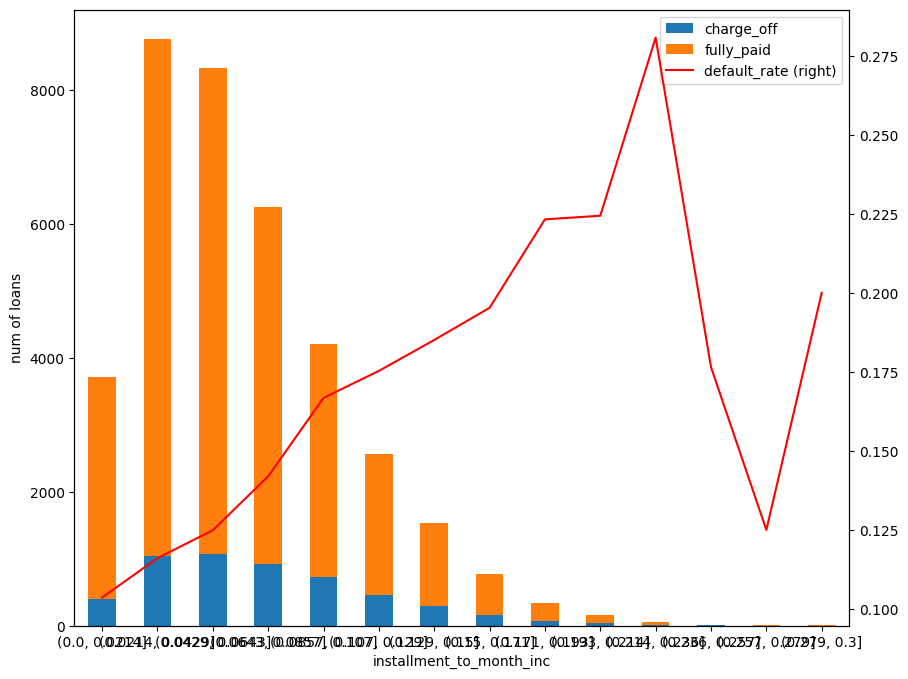
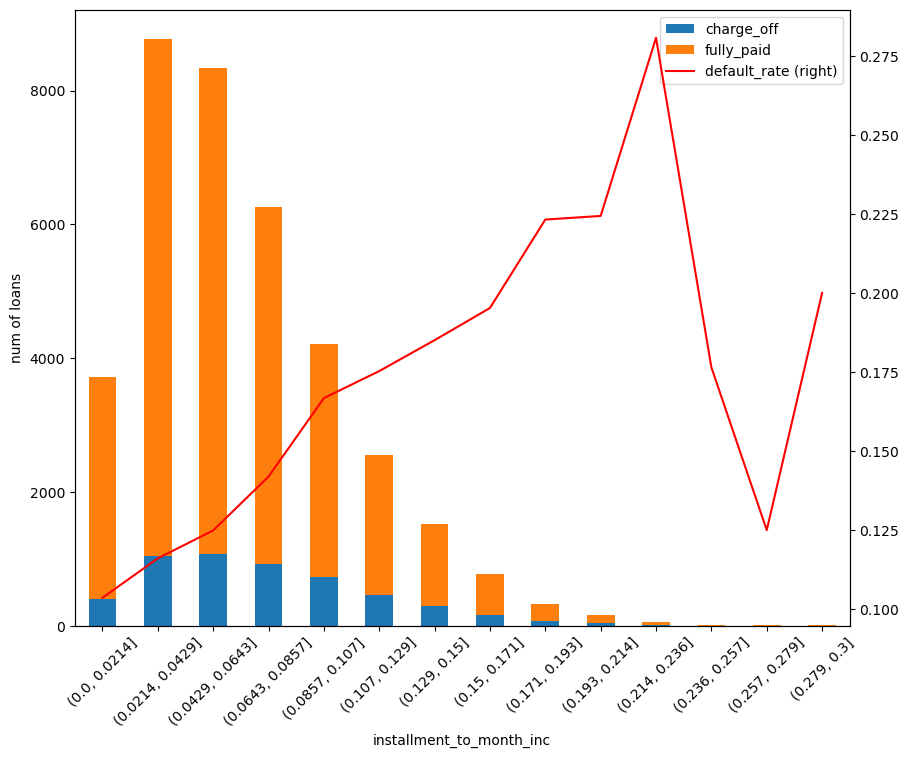
Built site for gh-pages

diff --git a/CaseStudy_Loans_EDA.html b/CaseStudy_Loans_EDA.html
@@ -1086,14 +1086,15 @@ LoanAmount &lt; 98%ile and Annual income &lt; 98%ile: num of rows: 36409
 <p><img src="CaseStudy_Loans_EDA_files/figure-html/cell-37-output-1.png" class="img-fluid"></p>
 </div>
 </div>
-<div class="cell" data-tags="[]" data-execution_count="37">
+<div class="cell" data-tags="[]" data-execution_count="46">
 <div class="sourceCode cell-code" id="cb55"><pre class="sourceCode python code-with-copy"><code class="sourceCode python"><span id="cb55-1"><a href="#cb55-1" aria-hidden="true" tabindex="-1"></a>ax <span class="op">=</span> loan_data_df.groupby([<span class="st">'installment_to_month_inc'</span>]).agg(</span>
 <span id="cb55-2"><a href="#cb55-2" aria-hidden="true" tabindex="-1"></a>                                         charge_off<span class="op">=</span>(<span class="st">'loan_status'</span>, <span class="kw">lambda</span> x: (x<span class="op">==</span><span class="st">'Charged Off'</span>).<span class="bu">sum</span>()),</span>
 <span id="cb55-3"><a href="#cb55-3" aria-hidden="true" tabindex="-1"></a>                                         fully_paid<span class="op">=</span>(<span class="st">'loan_status'</span>, <span class="kw">lambda</span> x: (x<span class="op">==</span><span class="st">'Fully Paid'</span>).<span class="bu">sum</span>()),</span>
 <span id="cb55-4"><a href="#cb55-4" aria-hidden="true" tabindex="-1"></a>                                        ).plot.bar(stacked<span class="op">=</span><span class="va">True</span>, xlabel<span class="op">=</span><span class="st">'installment to monthly income ratio'</span>, ylabel<span class="op">=</span><span class="st">'num of loans'</span>, figsize<span class="op">=</span>(<span class="dv">10</span>, <span class="dv">8</span>))</span>
 <span id="cb55-5"><a href="#cb55-5" aria-hidden="true" tabindex="-1"></a></span>
-<span id="cb55-6"><a href="#cb55-6" aria-hidden="true" tabindex="-1"></a>loan_data_df.groupby([<span class="st">'installment_to_month_inc'</span>]).agg(default_rate<span class="op">=</span>(<span class="st">'loan_status'</span>, <span class="kw">lambda</span> x: (x<span class="op">==</span><span class="st">'Charged Off'</span>).<span class="bu">sum</span>() <span class="op">/</span> x.count())).plot.line(secondary_y<span class="op">=</span><span class="st">'default_rate'</span>, ax<span class="op">=</span>ax, color<span class="op">=</span><span class="st">'r'</span>)</span></code><button title="Copy to Clipboard" class="code-copy-button"><i class="bi"></i></button></pre></div>
-<div class="cell-output cell-output-display" data-execution_count="37">
+<span id="cb55-6"><a href="#cb55-6" aria-hidden="true" tabindex="-1"></a>loan_data_df.groupby([<span class="st">'installment_to_month_inc'</span>]).agg(</span>
+<span id="cb55-7"><a href="#cb55-7" aria-hidden="true" tabindex="-1"></a>    default_rate<span class="op">=</span>(<span class="st">'loan_status'</span>, <span class="kw">lambda</span> x: (x<span class="op">==</span><span class="st">'Charged Off'</span>).<span class="bu">sum</span>() <span class="op">/</span> x.count())).plot.line(secondary_y<span class="op">=</span><span class="st">'default_rate'</span>, ax<span class="op">=</span>ax, color<span class="op">=</span><span class="st">'r'</span>, rot<span class="op">=</span><span class="dv">45</span>)</span></code><button title="Copy to Clipboard" class="code-copy-button"><i class="bi"></i></button></pre></div>
+<div class="cell-output cell-output-display" data-execution_count="46">
 <pre><code>&lt;Axes: &gt;</code></pre>
 </div>
 <div class="cell-output cell-output-display">
@@ -1195,12 +1196,19 @@ below 10k        below 1k                    2                1         0
 <p><img src="CaseStudy_Loans_EDA_files/figure-html/cell-42-output-2.png" class="img-fluid"></p>
 </div>
 </div>
-<div class="cell" data-tags="[]" data-execution_count="42">
-<div class="sourceCode cell-code" id="cb64"><pre class="sourceCode python code-with-copy"><code class="sourceCode python"><span id="cb64-1"><a href="#cb64-1" aria-hidden="true" tabindex="-1"></a>defaulted_loans <span class="op">=</span> loan_data_df[loan_data_df.loan_status <span class="op">==</span> <span class="st">'Charged Off'</span>]</span>
-<span id="cb64-2"><a href="#cb64-2" aria-hidden="true" tabindex="-1"></a>pd.cut(defaulted_loans.total_pymnt <span class="op">/</span> (defaulted_loans.loan_amnt <span class="op">*</span> (<span class="dv">1</span><span class="op">+</span>defaulted_loans.int_rate)), bins<span class="op">=</span>np.linspace(<span class="dv">0</span>,<span class="dv">1</span>,<span class="dv">7</span>)).value_counts(sort<span class="op">=</span><span class="va">False</span>).plot.line(rot<span class="op">=</span><span class="dv">45</span>, xlabel<span class="op">=</span><span class="st">'fraction of loan repaid'</span>, ylabel<span class="op">=</span><span class="st">'num of defaulted loans'</span>)</span>
-<span id="cb64-3"><a href="#cb64-3" aria-hidden="true" tabindex="-1"></a>plt.title(<span class="st">'Fraction repaid vs num of defaulted loans'</span>)</span></code><button title="Copy to Clipboard" class="code-copy-button"><i class="bi"></i></button></pre></div>
-<div class="cell-output cell-output-display" data-execution_count="42">
-<pre><code>Text(0.5, 1.0, 'Fraction repaid vs num of defaulted loans')</code></pre>
+<div class="cell" data-tags="[]" data-execution_count="52">
+<div class="sourceCode cell-code" id="cb64"><pre class="sourceCode python code-with-copy"><code class="sourceCode python"><span id="cb64-1"><a href="#cb64-1" aria-hidden="true" tabindex="-1"></a>fig, (ax1, ax2) <span class="op">=</span> plt.subplots(<span class="dv">1</span>,<span class="dv">2</span>, figsize<span class="op">=</span>(<span class="dv">12</span>,<span class="dv">6</span>))</span>
+<span id="cb64-2"><a href="#cb64-2" aria-hidden="true" tabindex="-1"></a></span>
+<span id="cb64-3"><a href="#cb64-3" aria-hidden="true" tabindex="-1"></a>defaulted_loans <span class="op">=</span> loan_data_df[loan_data_df.loan_status <span class="op">==</span> <span class="st">'Charged Off'</span>]</span>
+<span id="cb64-4"><a href="#cb64-4" aria-hidden="true" tabindex="-1"></a>pd.cut(defaulted_loans[defaulted_loans.term<span class="op">==</span><span class="dv">36</span>].total_rec_prncp <span class="op">/</span> defaulted_loans[defaulted_loans.term<span class="op">==</span><span class="dv">36</span>].loan_amnt , bins<span class="op">=</span>np.linspace(<span class="dv">0</span>,<span class="dv">1</span>,<span class="dv">7</span>)).value_counts(sort<span class="op">=</span><span class="va">False</span>).plot.line(rot<span class="op">=</span><span class="dv">45</span>, ax<span class="op">=</span>ax1, xlabel<span class="op">=</span><span class="st">'fraction of loan repaid'</span>, ylabel<span class="op">=</span><span class="st">'num of defaulted loans'</span>)</span>
+<span id="cb64-5"><a href="#cb64-5" aria-hidden="true" tabindex="-1"></a>ax1.set_title(<span class="st">'Fraction repaid vs num of defaulted loans (loan term=36)'</span>)</span>
+<span id="cb64-6"><a href="#cb64-6" aria-hidden="true" tabindex="-1"></a></span>
+<span id="cb64-7"><a href="#cb64-7" aria-hidden="true" tabindex="-1"></a>pd.cut(defaulted_loans.total_rec_prncp[defaulted_loans.term<span class="op">==</span><span class="dv">60</span>] <span class="op">/</span> defaulted_loans[defaulted_loans.term<span class="op">==</span><span class="dv">60</span>].loan_amnt , bins<span class="op">=</span>np.linspace(<span class="dv">0</span>,<span class="dv">1</span>,<span class="dv">7</span>)).value_counts(sort<span class="op">=</span><span class="va">False</span>).plot.line(rot<span class="op">=</span><span class="dv">45</span>, ax<span class="op">=</span>ax2, xlabel<span class="op">=</span><span class="st">'fraction of loan repaid'</span>, ylabel<span class="op">=</span><span class="st">'num of defaulted loans'</span>)</span>
+<span id="cb64-8"><a href="#cb64-8" aria-hidden="true" tabindex="-1"></a>ax2.set_title(<span class="st">'Fraction repaid vs num of defaulted loans (loan term=60)'</span>)</span>
+<span id="cb64-9"><a href="#cb64-9" aria-hidden="true" tabindex="-1"></a></span>
+<span id="cb64-10"><a href="#cb64-10" aria-hidden="true" tabindex="-1"></a><span class="co"># defaulted_loans[['total_pymnt', 'total_rec_prncp', 'out_prncp']]</span></span></code><button title="Copy to Clipboard" class="code-copy-button"><i class="bi"></i></button></pre></div>
+<div class="cell-output cell-output-display" data-execution_count="52">
+<pre><code>Text(0.5, 1.0, 'Fraction repaid vs num of defaulted loans (loan term=60)')</code></pre>
 </div>
 <div class="cell-output cell-output-display">
 <p><img src="CaseStudy_Loans_EDA_files/figure-html/cell-43-output-2.png" class="img-fluid"></p>
